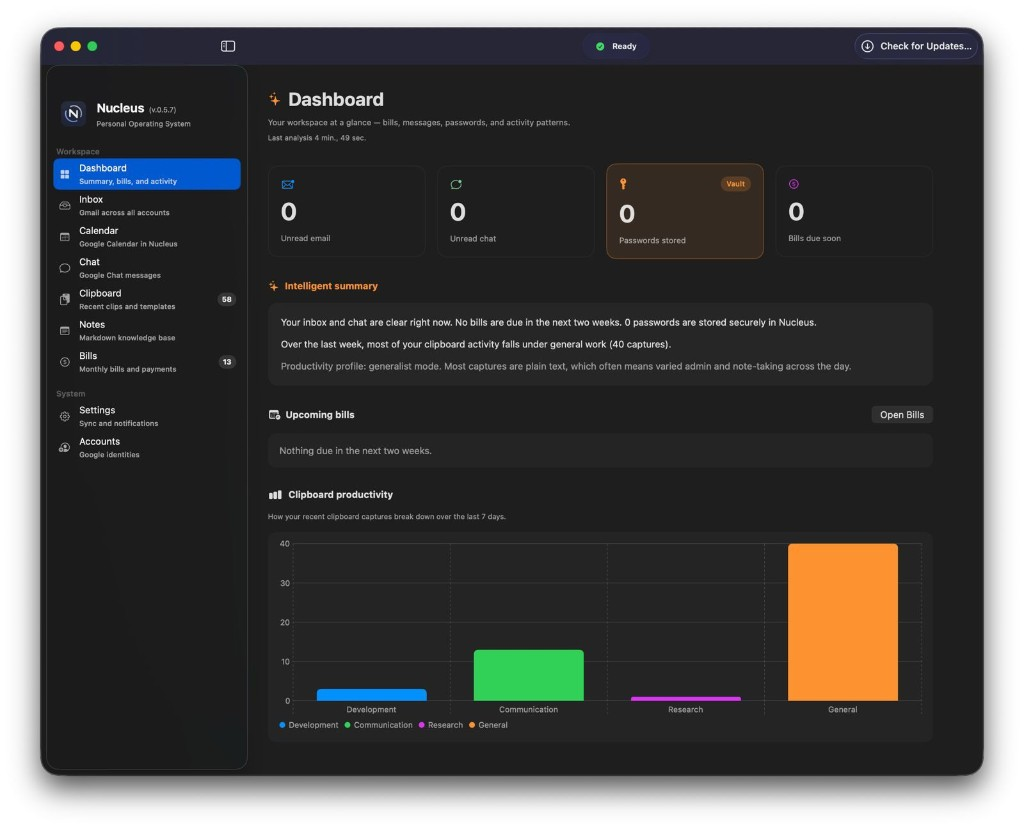
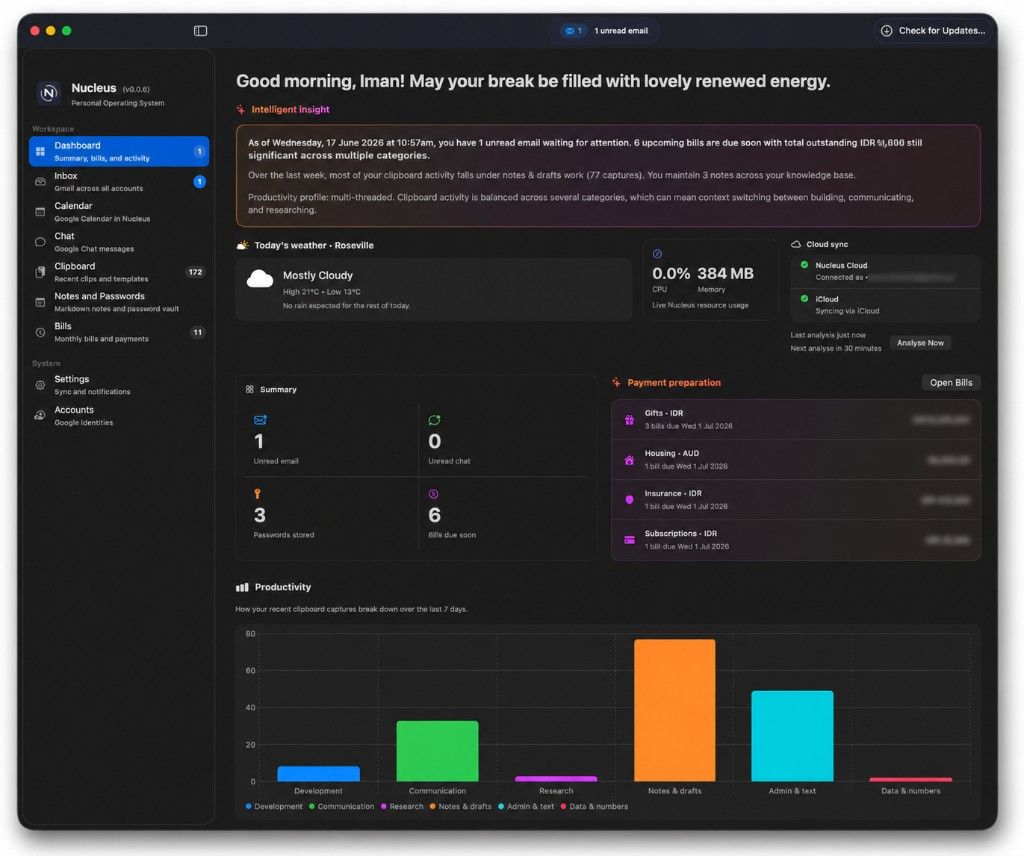
Update marketing website with v0.6.6 dashboard and full feature catalog.

diff --git a/website/src/components/FeatureShowcase.tsx b/website/src/components/FeatureShowcase.tsx
@@ -6,61 +6,73 @@ const features = [
   {
     title: "Dashboard",
     description:
-      "Start with a workspace summary — unread mail and chat, Vault password totals, bills due soon, an intelligent activity summary, and a seven-day clipboard productivity chart.",
+      "A morning greeting with a daily quote, intelligent insight, today's weather, live resource usage, and Cloud sync status — plus summary metrics and a seven-day productivity chart from your clipboard activity.",
     icon: "✨",
+  },
+  {
+    title: "Intelligent insight",
+    description:
+      "Rule-based analysis turns unread mail, chat, passwords, bills, and clipboard captures into a dated narrative — with manual Analyse Now and automatic refresh every 30 minutes.",
+    icon: "🧠",
   },
   {
     title: "Monthly bills",
     description:
-      "Track bills, due dates, partial payments, and reminders. The Dashboard surfaces what's due in the next two weeks with quick links into the Bills workspace.",
+      "Track recurring bills in multiple currencies, log full or partial payments, import and export CSV, and get local reminders before due dates. Payment preparation on the Dashboard groups what's due soon by category.",
     icon: "💳",
   },
   {
     title: "Multi-account Gmail",
     description:
-      "Category tabs for Personal, Work, and Client inboxes. Unread badges, per-message alerts, dock badge sync, and external links open in your browser.",
+      "Category tabs for Personal, Work, and Client inboxes with isolated web sessions per account. Unread badges, per-message alerts, dock badge sync, and external links open in your browser.",
     icon: "✉️",
   },
   {
     title: "Google Chat workspace",
     description:
-      "Dedicated Chat sidebar with per-account tabs, green unread badges, background polling, and Funky alert sounds when new messages arrive.",
+      "Dedicated Chat sidebar with per-account tabs, green unread badges, background polling even when Chat isn't open, and Funky alert sounds when new messages arrive.",
     icon: "💬",
   },
   {
     title: "Unified calendar",
     description:
-      "Embedded Google Calendar, upcoming meeting list, join links, on-demand Sync, and Funky reminders before meetings start.",
+      "Embedded Google Calendar week view for each web-sign-in account — switch between Personal, Work, and Client calendars without leaving Nucleus.",
     icon: "📅",
-  },
-  {
-    title: "Upcoming meetings bar",
-    description:
-      "See the next meetings across all accounts at the top of the app with quick Join actions and calendar navigation.",
-    icon: "⏰",
-  },
-  {
-    title: "Smart notifications",
-    description:
-      "Per-message email alerts with sender and subject, chat notifications, and calendar reminders — all with the custom Funky chime.",
-    icon: "🔔",
   },
   {
     title: "Clipboard memory",
     description:
-      "Automatic clipboard history with search, pinning, and save-to-notes. Paste from history with a keyboard shortcut.",
+      "Automatic clipboard history with search, pinning, and save-to-notes. Paste from history with ⌘⇧V. Intelligent clipboard detects password-like content and offers to save it to your vault.",
     icon: "📋",
   },
   {
-    title: "Markdown notes",
+    title: "Notes & passwords",
     description:
-      "Capture meeting notes, daily logs, and clipboard saves to Markdown files on your primary Google Drive account.",
-    icon: "📝",
+      "Markdown notes with optional Google Drive upload, plus a structured password vault with username, email, URL, and password fields. Quick copy from the menu bar popover.",
+    icon: "🔐",
+  },
+  {
+    title: "Cloud sync",
+    description:
+      "Nucleus Cloud syncs notes, bills, dashboard analysis, and settings across devices. iCloud CloudKit keeps notes and bills on your Apple devices — with manual sync and status on the Dashboard.",
+    icon: "☁️",
+  },
+  {
+    title: "Smart notifications",
+    description:
+      "Per-message email alerts with sender and subject, chat notifications, bill due reminders, and clipboard password prompts — with per-account Funky, Nucleus Mail, or system sounds.",
+    icon: "🔔",
+  },
+  {
+    title: "Menu bar companion",
+    description:
+      "Optional menu bar item for recent clips and passwords, password-save prompts, and clipboard access without bringing the main window forward.",
+    icon: "📎",
   },
   {
     title: "Native macOS workspace",
     description:
-      "SwiftUI shell with web Gmail sign-in, Sparkle auto-updates, and a refreshed Nucleus app icon.",
+      "SwiftUI shell with web Gmail sign-in, Sparkle auto-updates, dock badges for mail, chat, and bills, hourly beep, and a refreshed Nucleus app icon.",
     icon: "🖥️",
   },
 ];
@@ -70,12 +82,12 @@ export function FeatureShowcase() {
     <section id="features" className="mx-auto max-w-7xl px-4 py-16 sm:px-6">
       <div className="max-w-3xl">
         <h2 className="text-3xl font-bold tracking-tight text-slate-50 sm:text-4xl">
-          Everything added since launch
+          Everything in one workspace
         </h2>
         <p className="mt-4 text-lg text-slate-400">
           {BRAND_NAME} started as a unified Gmail and calendar cockpit and has grown into a daily
-          operating system with a Dashboard, mail, chat, bills, clipboard, notes, and alerts — all in
-          one native macOS app.
+          operating system — mail, chat, calendar, bills, clipboard, notes, passwords, cloud sync,
+          and alerts in one native macOS app.
         </p>
       </div>
       <div className="mt-10 grid gap-6 md:grid-cols-2">

diff --git a/website/src/components/AppPreview.tsx b/website/src/components/AppPreview.tsx
@@ -5,12 +5,12 @@ const previews = [
   {
     image: "/app-screenshot-dashboard.png",
     width: 1024,
-    height: 829,
-    alt: `${BRAND_NAME} Dashboard showing unread counts, intelligent summary, upcoming bills, and clipboard productivity chart`,
+    height: 856,
+    alt: `${BRAND_NAME} Dashboard showing greeting, intelligent insight, today's weather, resource usage, cloud sync, summary metrics, payment preparation, and productivity chart`,
     title: "Dashboard",
     headline: "Your workspace at a glance — before you open a single tab.",
     description:
-      "The Dashboard summarizes unread email and chat, Vault password totals, and bills due in the next two weeks. An intelligent summary turns activity into plain-language status — inbox load, bill deadlines, and a productivity profile from your recent clipboard captures. A seven-day bar chart breaks clipboard usage into Development, Communication, Research, and more so you can see how your day actually flows.",
+      "Start with a personal greeting and daily quote, then read an intelligent insight that turns inbox load, bill deadlines, and clipboard activity into plain-language status. Today's weather, live CPU and memory for Nucleus, and Cloud sync status sit in the header row. Summary metrics jump you straight into mail, chat, passwords, or bills — and Payment preparation groups what's due in the next two weeks by category and currency. A seven-day productivity chart breaks clipboard captures into Development, Communication, Research, Notes & drafts, Admin & text, and Data & numbers.",
     imageFirst: true,
     large: true,
   },
@@ -33,8 +33,8 @@ export function AppPreview() {
           Open one cockpit every morning.
         </h2>
         <p className="mt-3 text-base leading-7 text-slate-400">
-          {BRAND_NAME} keeps mail, chat, calendar, bills, clipboard, and notes in one SwiftUI
-          workspace — with a Dashboard that tells you what needs attention first.
+          {BRAND_NAME} keeps mail, chat, calendar, bills, clipboard, notes, and passwords in one
+          SwiftUI workspace — with a Dashboard that tells you what needs attention first.
         </p>
       </div>
 

diff --git a/website/src/components/Hero.tsx b/website/src/components/Hero.tsx
@@ -27,8 +27,9 @@ export function Hero() {
           </h1>
           <p className="mt-4 max-w-3xl text-base leading-7 text-slate-400 sm:mt-6 sm:text-lg sm:leading-8 md:text-xl md:leading-9">
             Nucleus unifies Gmail, Google Chat, Calendar, clipboard intelligence, markdown notes,
-            monthly bills, and Funky alerts across multiple Google accounts — with a Dashboard that
-            summarizes what needs attention before you dive in.
+            password vault, monthly bills, and Funky alerts across multiple Google accounts — with a
+            Dashboard that greets you, shows today&apos;s weather, and summarizes what needs
+            attention before you dive in.
           </p>
 
           <div id="download" className="mt-6 flex flex-col gap-3 sm:mt-8">
@@ -60,7 +61,8 @@ export function Hero() {
             <span>Dashboard</span>
             <span>Multi-account Gmail</span>
             <span>Google Chat</span>
-            <span>Monthly bills</span>
+            <span>Bills & passwords</span>
+            <span>Cloud sync</span>
           </div>
         </div>
 

diff --git a/website/src/components/CtaBanner.tsx b/website/src/components/CtaBanner.tsx
@@ -10,8 +10,9 @@ export function CtaBanner() {
             Ready to open one workspace every morning?
           </h2>
           <p className="mt-3 max-w-2xl text-slate-400">
-            Download {BRAND_NAME} for macOS and open one Dashboard for Gmail, Google Chat,
-            calendar, bills, clipboard, notes, and meeting alerts across your Google accounts.
+            Download {BRAND_NAME} for macOS and open one Dashboard for Gmail, Google Chat, calendar,
+            bills, clipboard, notes, passwords, and alerts across your Google accounts — synced with
+            Nucleus Cloud or iCloud.
           </p>
         </div>
         <Link href="/install" className="btn-primary shrink-0">

diff --git a/website/src/components/Footer.tsx b/website/src/components/Footer.tsx
@@ -7,8 +7,9 @@ export function Footer() {
       <div className="mx-auto max-w-7xl px-4 py-5 sm:px-6 sm:py-6">
         <p className="max-w-5xl text-sm leading-6 text-slate-400">
           {BRAND_NAME} is a native macOS personal operating system for Gmail, Google Chat, calendar,
-          clipboard, notes, and Funky alerts.
-          Your Google web sessions stay in isolated cookie stores on your Mac. Contributions and issue reports are welcome on{" "}
+          bills, clipboard, notes, passwords, and Funky alerts — with Nucleus Cloud and iCloud sync.
+          Your Google web sessions stay in isolated cookie stores on your Mac. Contributions and
+          issue reports are welcome on{" "}
           <a
             href={GITHUB_REPO_URL}
             className="text-brand-blue transition hover:text-[#3395ff]"

diff --git a/website/src/components/OpenSourceSection.tsx b/website/src/components/OpenSourceSection.tsx
@@ -6,7 +6,8 @@ export function OpenSourceSection() {
       <div className="card p-8">
         <h2 className="text-2xl font-bold text-slate-50 sm:text-3xl">Open source</h2>
         <p className="mt-4 max-w-3xl text-slate-400">
-          Nucleus is built in Swift with modular kits for mail, calendar, clipboard, and notes. Contributions and issue reports are welcome on GitHub.
+          Nucleus is built in Swift with modular kits for mail, calendar, clipboard, notes, bills,
+          and sync. Contributions and issue reports are welcome on GitHub.
         </p>
         <a
           href={GITHUB_REPO_URL}

diff --git a/website/src/app/layout.tsx b/website/src/app/layout.tsx
@@ -8,7 +8,7 @@ import { SHARE_IMAGE, SITE_URL } from "@/lib/site";
 
 const inter = Inter({ subsets: ["latin"] });
 
-const defaultDescription = `${BRAND_TAGLINE}. Unify Gmail, Google Chat, Calendar, bills, notes, clipboard intelligence, and Funky alerts across multiple Google accounts — with a Dashboard at a glance.`;
+const defaultDescription = `${BRAND_TAGLINE}. Unify Gmail, Google Chat, Calendar, bills, notes, passwords, clipboard intelligence, and Funky alerts across multiple Google accounts — with a Dashboard that greets you, shows today's weather, and summarizes your workspace at a glance.`;
 
 export const metadata: Metadata = {
   metadataBase: new URL(SITE_URL),

diff --git a/website/src/app/page.tsx b/website/src/app/page.tsx
@@ -9,7 +9,7 @@ import { SHARE_IMAGE, SITE_URL } from "@/lib/site";
 
 const homeTitle = "Nucleus — Personal Operating System for macOS";
 const homeDescription =
-  "Unify Gmail, Google Chat, Calendar, bills, clipboard intelligence, markdown notes, and Funky alerts across multiple Google accounts — with a Dashboard that summarizes your workspace at a glance.";
+  "Unify Gmail, Google Chat, Calendar, bills, clipboard intelligence, markdown notes, password vault, and Funky alerts across multiple Google accounts — with a Dashboard that greets you, shows today's weather, intelligent insight, and payment preparation at a glance.";
 
 export const metadata: Metadata = {
   title: homeTitle,